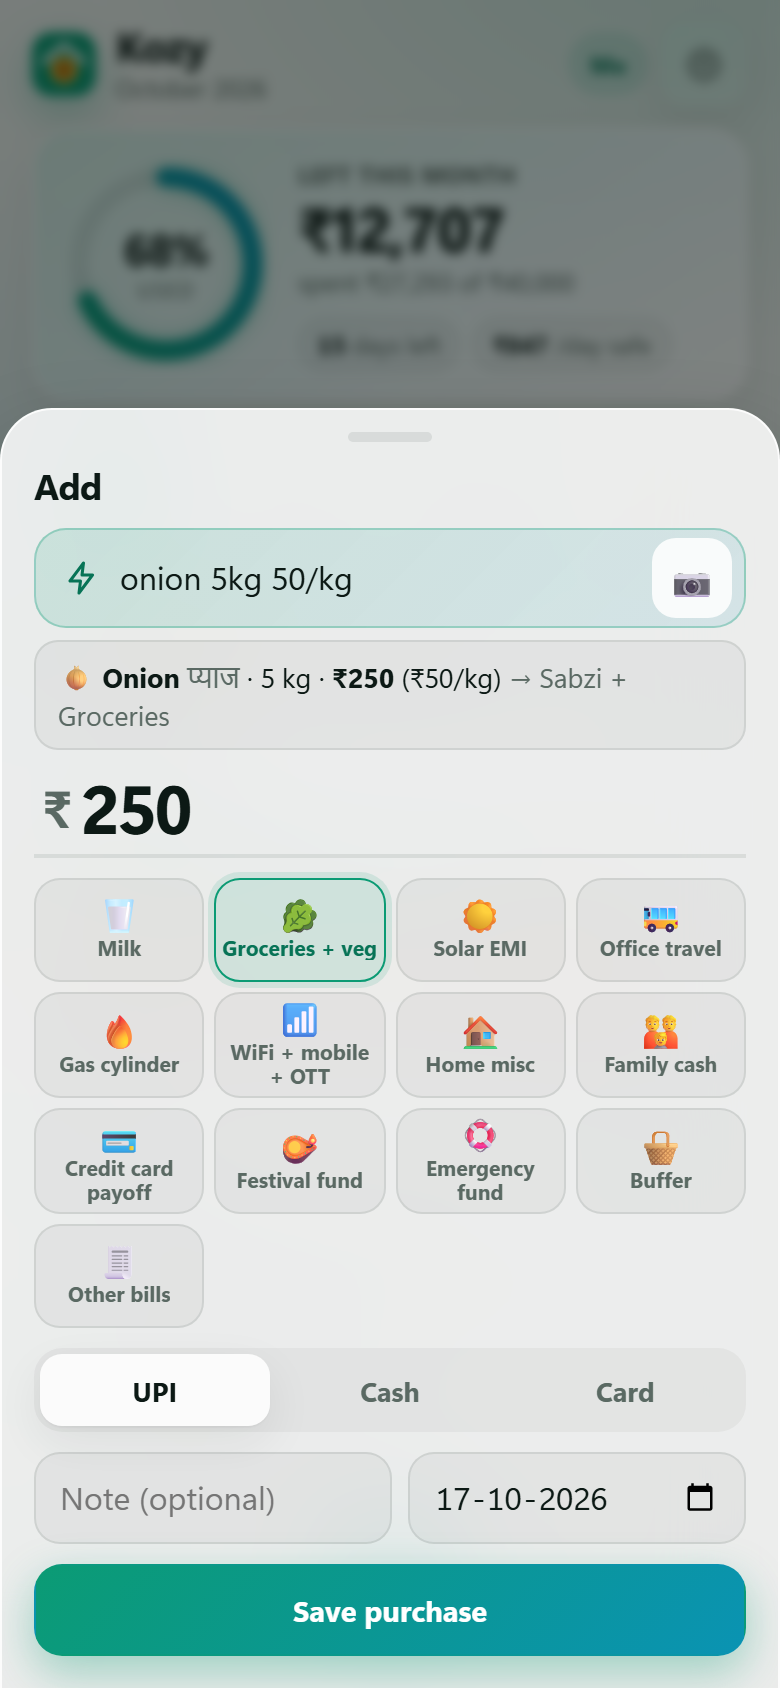
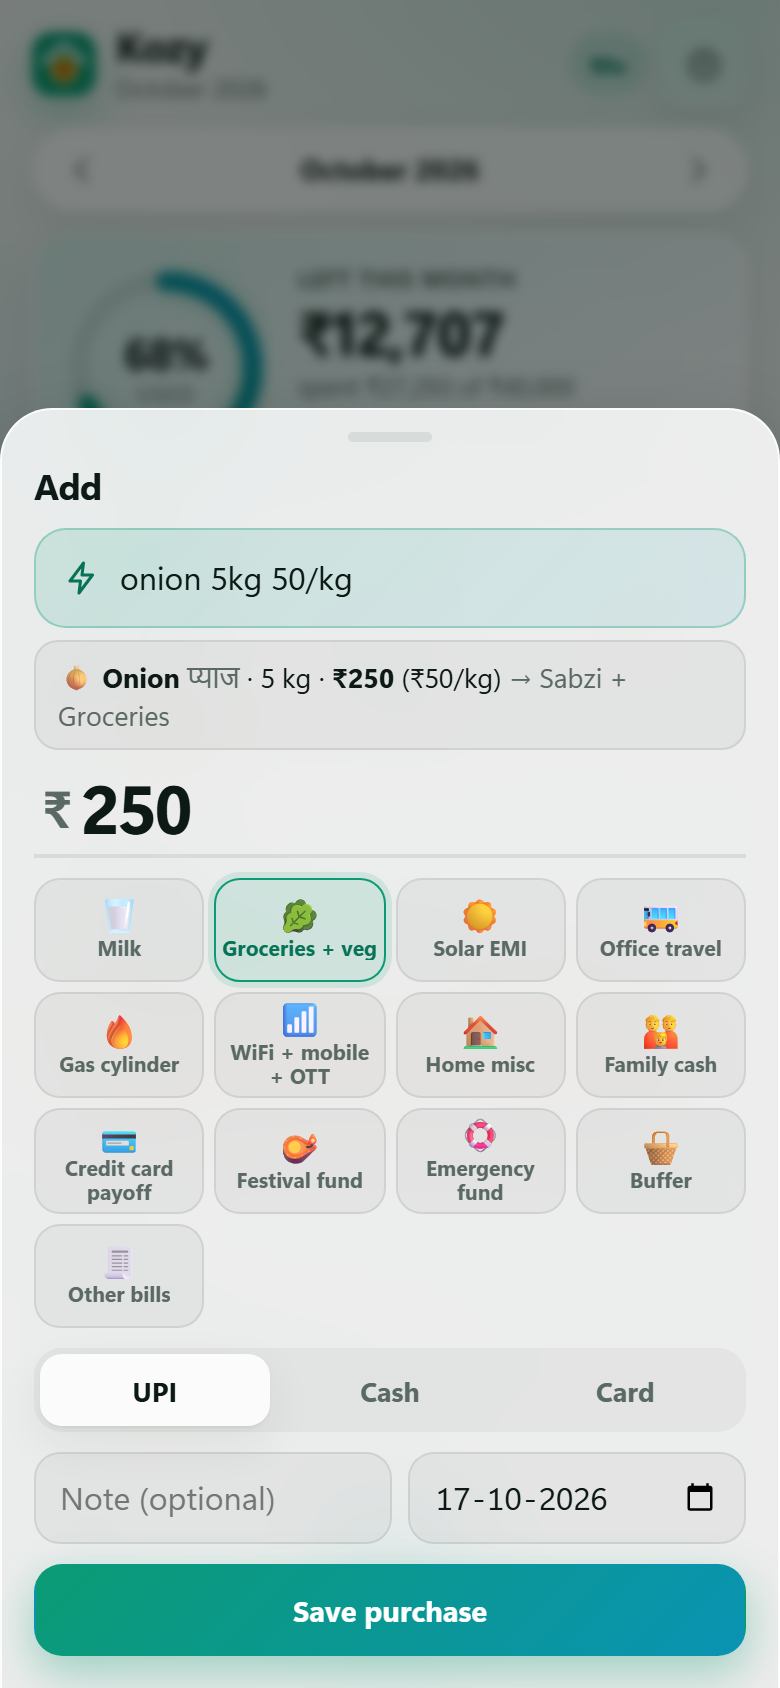
Remove bill photo scan; month switcher (previous / next) on Home

diff --git a/js/views/home.js b/js/views/home.js
@@ -5,12 +5,15 @@ import { reminders } from '../logic/reminders.js';
 import { activity } from '../logic/activity.js';
 import { money, monthName, monthKey, today, esc, number, dayLabel } from '../logic/format.js';
 import { icon, logo, bar, toast, bump, openSheet, closeSheet } from '../ui.js';
-import { activityRow, syncDot, roleBadge, gearLink } from './common.js';
+import { activityRow, syncDot, roleBadge, gearLink, monthSwitch } from './common.js';
 import { openSpendSheet } from './spend-sheet.js';
 import { shoppingList } from '../logic/stock.js';
 import { shiftMonth, moneyShort } from '../logic/format.js';
 import { openEntry } from './edit-entry.js';
 import * as store from '../store.js';
+
+// Which month the top card shows. Resets to this month whenever you come back to Home.
+let viewMk = monthKey();
 
 function chips() {
   const t = today();
@@ -44,7 +47,6 @@ function quickActions() {
     : `<a class="qa-btn done" href="#/milk" data-test="chip-milk"><span class="qa-ic">${icon('check')}</span><span class="qa-t">${md.skip ? 'Milk skipped' : `Milk ✓ ${number(md.litres)} L`}</span></a>`;
   return `<section class="qa" data-test="quick">
     <button class="qa-btn primary" data-act="qa-add" ${w ? '' : 'disabled'}><span class="qa-ic">${icon('plus')}</span><span class="qa-t">Add</span></button>
-    <button class="qa-btn" data-act="qa-scan" ${w ? '' : 'disabled'}><span class="qa-ic">${icon('camera')}</span><span class="qa-t">Scan bill</span></button>
     ${milkBtn}
     <a class="qa-btn ${shopN ? 'warn' : ''}" href="#/stock"><span class="qa-ic">${icon('cart')}</span><span class="qa-t">Shop${shopN ? ` · ${shopN}` : ''}</span></a>
   </section>`;
@@ -83,7 +85,8 @@ function gauge(spent, limit, lvl) {
 }
 
 export function render() {
-  const mk = monthKey();
+  const mk = viewMk;
+  const isNow = mk === monthKey();
   const s = budget.summary(mk);
   const overallLvl = budget.level(s.spent, s.limit);
   const feed = activity(4);
@@ -94,27 +97,29 @@ export function render() {
     <div class="top-right">${roleBadge()}${gearLink()}</div>
   </header>
 
+  <div data-test="home-month">${monthSwitch(mk, 'hmonth')}</div>
+
   <section class="card hero ${s.left < 0 ? 'neg' : ''}" data-test="hero">
     ${gauge(s.spent, s.limit, overallLvl)}
     <div class="hero-main">
-      <p class="label">Left this month</p>
-      <p class="big" data-test="left">${money(s.left)}</p>
+      <p class="label">${isNow ? 'Left this month' : s.left >= 0 ? `Saved in ${monthName(mk)}` : `Over in ${monthName(mk)}`}</p>
+      <p class="big" data-test="left">${money(isNow ? s.left : Math.abs(s.left))}</p>
       <p class="hero-sub">spent ${money(s.spent)} of ${money(s.limit)}</p>
-      <div class="hero-stats">
+      ${isNow ? `<div class="hero-stats">
         <span><b data-test="days-left">${s.daysLeft}</b> days left</span>
         <span><b data-test="safe-daily">${money(s.safeDaily)}</b> /day safe</span>
-      </div>
+      </div>` : ''}
     </div>
   </section>
 
-  ${newMonthCard()}
+  ${isNow ? newMonthCard() : ''}
 
   ${quickActions()}
 
   ${chips() ? `<section class="needs" data-test="needs" aria-label="Needs you">${chips()}</section>` : ''}
 
   <section class="card tight">
-    <div class="card-head"><h2>Top spends</h2><a class="link" href="#/budget">All ${icon('chevron')}</a></div>
+    <div class="card-head"><h2>Top spends${isNow ? '' : ` · ${monthName(mk)}`}</h2><a class="link" href="#/budget">All ${icon('chevron')}</a></div>
     ${s.top.length ? s.top.map((c) => {
       const lvl = budget.level(c.amount, c.limit);
       return `<a class="cat-mini go-row" href="#/budget">
@@ -174,17 +179,19 @@ export function activitySheet() {
   el.querySelectorAll('[data-open]').forEach((b) => b.addEventListener('click', () => openEntry(b.dataset.open, b.dataset.ref)));
 }
 
-export function bind(root) {
+export function bind(root, rerender) {
+  viewMk = monthKey();
   root.addEventListener('click', async (ev) => {
     const o = ev.target.closest('[data-open]');
     if (o) { openEntry(o.dataset.open, o.dataset.ref); return; }
     const t = ev.target.closest('[data-act]');
     if (!t) return;
     const act = t.dataset.act;
-    if (act === 'bills') billsSheet();
+    if (act === 'hmonth-prev') { viewMk = shiftMonth(viewMk, -1); rerender(); }
+    else if (act === 'hmonth-next') { viewMk = shiftMonth(viewMk, 1); rerender(); }
+    else if (act === 'bills') billsSheet();
     else if (act === 'checklist') billsSheet('checklist');
     else if (act === 'qa-add') openSpendSheet();
-    else if (act === 'qa-scan') { const m = await import('./scan-sheet.js'); m.openScanSheet(); }
     else if (act === 'activity') activitySheet();
     else if (act === 'milk-tick') {
       bump(t);

diff --git a/css/app.css b/css/app.css
@@ -227,7 +227,7 @@ h2 { font-size: 14.5px; font-weight: 680; display: flex; align-items: center; ga
 @keyframes ring { from { stroke-dasharray: 0 100; } }
 
 /* Quick actions */
-.qa { display: grid; grid-template-columns: repeat(4, minmax(0, 1fr)); gap: 8px; }
+.qa { display: grid; grid-template-columns: repeat(3, minmax(0, 1fr)); gap: 8px; }
 .qa-btn {
   display: flex; flex-direction: column; align-items: center; justify-content: center; gap: 5px; min-height: 70px; padding: 8px 4px;
   border-radius: 18px; color: var(--text); text-align: center; transition: transform .1s ease;
@@ -410,7 +410,6 @@ input[type=number]::-webkit-inner-spin-button { -webkit-appearance: none; }
 .smart-in { flex: 1; min-width: 0; border: 0; background: none; min-height: 48px; font-size: 16px; outline: none; color: var(--text); }
 .smart-in::placeholder { color: color-mix(in srgb, var(--brand-text) 60%, transparent); }
 .smart-preview { font-size: 13.5px; background: var(--surface-2); border: 1px solid var(--line); padding: 8px 11px; border-radius: 12px; margin-top: -4px; }
-.scan-btn { border: 0; background: var(--glass-strong); border-radius: 12px; font-size: 18px; min-width: 40px; min-height: 40px; }
 
 .cat-grid { display: grid; grid-template-columns: repeat(4, minmax(0, 1fr)); gap: 5px; }
 .cat-chip { display: flex; flex-direction: column; align-items: center; justify-content: center; gap: 2px; min-height: 52px; padding: 4px 2px; border-radius: 13px; border: 1.5px solid var(--line); background: var(--surface-2); transition: border-color .15s ease, background .15s ease; }
@@ -495,7 +494,7 @@ input[type=number]::-webkit-inner-spin-button { -webkit-appearance: none; }
 .sm-row { display: flex; align-items: center; gap: 6px; padding: 5px 0; border-top: 1px solid var(--line); }
 .sm-row:first-child { border-top: 0; }
 .sm-check { flex: 1; min-width: 0; display: flex; align-items: center; gap: 8px; min-height: 44px; font-size: 14px; }
-.sm-check input, .scan-row input[type="checkbox"] { width: 22px; height: 22px; accent-color: var(--brand); flex: none; }
+.sm-check input { width: 22px; height: 22px; accent-color: var(--brand); flex: none; }
 .sm-check span { overflow: hidden; text-overflow: ellipsis; white-space: nowrap; }
 .sm-qty { width: 62px; flex: none; text-align: right; min-height: 40px; padding: 0 6px; }
 .sm-price { width: 66px; flex: none; text-align: right; min-height: 40px; padding: 0 6px; }
@@ -507,10 +506,6 @@ input[type=number]::-webkit-inner-spin-button { -webkit-appearance: none; }
 .plan-amt { font-weight: 760; white-space: nowrap; }
 .plan-row .icon-btn { width: 40px; height: 40px; background: var(--brand-soft); color: var(--brand-text); }
 .plan-row .icon-btn.on { background: var(--grad); color: var(--brand-ink); }
-.scan-list { max-height: 50vh; overflow: auto; }
-.scan-row { display: flex; align-items: center; gap: 6px; padding: 5px 0; border-top: 1px solid var(--line); }
-.scan-row:first-child { border-top: 0; }
-.scan-name { min-width: 0; display: flex; flex-direction: column; font-size: 13.5px; }
 .sm-name { min-height: 38px; font-size: 15px; }
 .raw pre { white-space: pre-wrap; font-size: 11.5px; max-height: 30vh; overflow: auto; background: var(--surface-2); padding: 8px; border-radius: 10px; }
 

diff --git a/tests/kozy.spec.js b/tests/kozy.spec.js
@@ -83,6 +83,30 @@ test('add, edit, delete + undo a spend from the + button', async ({ page }) => {
   await expect(page.locator('.sheet .form-error')).toHaveText('Enter an amount');
 });
 
+test('home: previous / next month, then back to this month; no scan option anywhere', async ({ page }) => {
+  await fresh(page);
+  await addSpend(page, 250, 'Home misc', 'Cash', 'Bulb');
+  await expect(page.locator('[data-test="left"]')).toHaveText('₹39,750');
+  await expect(page.locator('[data-test="home-month"]')).toContainText('October 2026');
+  await page.locator('[data-test="home-month"] [data-act="hmonth-prev"]').click();
+  await expect(page.locator('[data-test="home-month"]')).toContainText('September 2026');
+  await expect(page.locator('.hero .label')).toHaveText('Saved in September 2026');
+  await expect(page.locator('[data-test="left"]')).toHaveText('₹40,000'); // nothing spent in September
+  await expect(page.locator('[data-test="days-left"]')).toHaveCount(0);
+  await page.locator('[data-test="home-month"] [data-act="hmonth-next"]').click();
+  await expect(page.locator('.hero .label')).toHaveText('Left this month');
+  await expect(page.locator('[data-test="left"]')).toHaveText('₹39,750');
+  // leaving Home and coming back starts on this month again
+  await page.locator('[data-test="home-month"] [data-act="hmonth-prev"]').click();
+  await page.locator('.dock a[href="#/budget"], .tabbar a[data-tab="budget"]').first().click();
+  await page.locator('.tabbar a[data-tab="home"]').click();
+  await expect(page.locator('[data-test="home-month"]')).toContainText('October 2026');
+  // the bill scanner is gone
+  await expect(page.getByText('Scan bill')).toHaveCount(0);
+  await page.locator('#fab').click();
+  await expect(page.locator('[data-scan]')).toHaveCount(0);
+});
+
 test('smart quick add: spend, kitchen item, sabzi with ₹/kg', async ({ page }) => {
   await fresh(page);
   await smartAdd(page, 'auto 80 cash');

diff --git a/tests/unit.spec.js b/tests/unit.spec.js
@@ -99,7 +99,6 @@ test('summary, who spent, goals, activity, reminders', () => {
 });
 
 // ---------- v1.2 ----------
-import { parseBill } from '../js/logic/scan.js';
 
 test('budget total, allocation, salary-day checklist', async () => {
   expect(budget.budgetTotal()).toBe(40000); // no budgetTotal set → sum of limits
@@ -153,33 +152,6 @@ test('monthly use + plan, edit a purchase (price lives in the spend)', async () 
   expect(store.get('stock', ev.id).entryId).toBeNull();
   await stock.updatePurchase(store.get('stock', ev.id), { price: 240 });
   expect(stock.priceOf(store.get('stock', ev.id))).toBe(240);
-});
-
-test('bill scan parser', () => {
-  const text = `SHRI BALAJI KIRANA STORE
-Rohtak  Ph: 9812345678
-Date: 17/10/2026  Bill No: 1123
-Item          Qty    Rate   Amount
-Aashirvaad Atta 10kg  1  420  420.00
-Fortune Mustard Oil 1L 2 165  330.00
-Tata Salt 1kg   1   28   28.00
-Surf Excel 1kg  1  135  135
-Onion 2kg  1  80  80
-Parle G biscuit 4 10 40
-Sub Total               1033.00
-CGST 0.00
-Grand Total   1,033.00
-Thank you visit again`;
-  const r = parseBill(text);
-  expect(r.total).toBe(1033);
-  const byItem = Object.fromEntries(r.rows.filter((x) => x.item).map((x) => [x.item.id, x]));
-  expect(byItem['item-atta']).toMatchObject({ qty: 10, unit: 'kg', price: 420 });
-  expect(byItem['item-oil']).toMatchObject({ price: 330 });
-  expect(byItem['item-salt']).toMatchObject({ price: 28 });
-  expect(byItem['veg-onion']).toMatchObject({ qty: 2, price: 80 });
-  expect(r.rows.find((x) => /parle/i.test(x.name))).toMatchObject({ item: null, price: 40 });
-  expect(r.rows.length).toBe(6);
-  expect(r.sum).toBe(1033);
 });
 
 test('login with just a name adds the family domain', async () => {

diff --git a/js/views/spend-sheet.js b/js/views/spend-sheet.js
@@ -24,7 +24,6 @@ export function openSpendSheet(entry = null, preset = {}) {
       ${!isEdit ? `<label class="smart">
         ${icon('bolt')}
         <input name="smart" class="smart-in" placeholder="sabzi 250 · atta 10kg 420 · auto 80 cash" autocomplete="off" autocapitalize="off" aria-label="Smart quick add">
-        <button type="button" class="scan-btn" data-scan aria-label="Scan a bill photo">📷</button>
       </label>
       <p class="smart-preview" data-preview hidden></p>` : ''}
       <label class="amount-field">
@@ -73,12 +72,6 @@ export function openSpendSheet(entry = null, preset = {}) {
   };
   form.querySelectorAll('[data-cat]').forEach((b) => b.addEventListener('click', () => pickCat(b.dataset.cat)));
   form.querySelectorAll('[data-mode]').forEach((b) => b.addEventListener('click', () => pickMode(b.dataset.mode)));
-
-  form.querySelector('[data-scan]')?.addEventListener('click', async (e) => {
-    e.preventDefault();
-    const { openScanSheet } = await import('./scan-sheet.js');
-    openScanSheet();
-  });
 
   form.smart?.addEventListener('input', () => {
     const r = parse(form.smart.value);

diff --git a/sw.js b/sw.js
@@ -22,9 +22,7 @@ const SHELL = [
   'js/logic/activity.js',
   'js/logic/quick.js',
   'js/logic/reminders.js',
-  'js/logic/scan.js',
   'js/views/edit-entry.js',
-  'js/views/scan-sheet.js',
   'js/views/common.js',
   'js/views/home.js',
   'js/views/budget.js',

diff --git a/CLAUDE.md b/CLAUDE.md
@@ -27,15 +27,15 @@ Plain HTML + CSS + vanilla JS (ES modules). No build step. Must run on GitHub Pa
 - `js/views/auth.js` (`runGate`: login / create account / check inbox / create household), `js/views/team.js` (Settings → 👥 Household).
 - `js/logic/*.js` — pure maths, no DOM: `budget` (cats, budget total, bills + salary-day checklist, goals, summary,
   insights, year view, family spends), `stock` (kitchen countdown, sabzi prices, edit purchase, monthly use + plan),
-  `milk`, `quick` (smart quick-add parser), `scan` (bill photo → lines, Tesseract.js from CDN), `reminders`, `activity`, `demo`, `format`.
+  `milk`, `quick` (smart quick-add parser), `reminders`, `activity`, `demo`, `format`.
 - `js/views/*.js` — one file per screen + `spend-sheet.js` (the + button), `edit-entry.js` (edit any entry),
-  `scan-sheet.js` (📷 review). `js/app.js` — router + startup.
+  `js/app.js` — router + startup.
 - `sw.js` (offline + push) · `manifest.webmanifest` · `icons/` — PWA.
 - `firestore.rules` — roles enforced server-side (ME_EMAIL / WIFE_EMAIL / VIEWER_EMAIL placeholders).
 - `tools/server.mjs` — local server (`npm start` → http://localhost:5173).
 - `tools/reminders/send.mjs` + `.github/workflows/reminders.yml` — free daily push reminders (every household) via GitHub Actions.
 - `tools/reminders/backup.mjs` + `.github/workflows/backup.yml` — nightly JSON backup to a PRIVATE repo + free-limit warning. `.github/workflows/ci.yml` — all tests on every push.
-- `tests/` — Playwright (`npm test`, 32 tests incl. unit, push and a real bill scan). Screenshots → `screenshots/`.
+- `tests/` — Playwright (`npm test`, 35 tests incl. unit and push). Screenshots → `screenshots/`.
 - `tests-rules/` — Firebase emulator tests (needs Java 11+): `npm test` (14 rules tests), `npm run test:app` (real app: sign up → household → roles → removal → legacy account), `npm run test:backup` (nightly backup script), `npm run demo` (emulators + app at http://localhost:5173/?emulator=1 to try by hand; inbox screen has an "[Emulator] auto-verify" button).
 
 ## Progress
@@ -52,7 +52,7 @@ Plain HTML + CSS + vanilla JS (ES modules). No build step. Must run on GitHub Pa
       (MULTI_USER_PLAN.md, DECISIONS #76+). All tests pass. TO PUBLISH: paste firestore.rules in Firebase console, turn ON sign-up
       (Authentication → Settings → User actions), set email template sender "Kozy", then merge `multi-user` into `main` and push.
 - [x] v2.0.1 LIVE (multi-user, krrish still works). v2.1.0 on branch `join-codes` (NOT published): invite codes + link, delete household/account,
-      backup + usage-warning script, CI. TO PUBLISH v2.1: re-paste firestore.rules (new `invites` part), merge `join-codes` → main, push.
+      backup + usage-warning script, CI, ◀ month ▶ on Home, bill scan removed. TO PUBLISH v2.1: re-paste firestore.rules (new `invites` part), merge `join-codes` → main, push.
       Backup needs secrets FIREBASE_SERVICE_ACCOUNT + BACKUP_REPO_TOKEN and a private repo krrivats/kozy-backups (not done yet).
 - [ ] Later: medicines with expiry, home items (plumbing/electrical/utensils)
 - [ ] Maybe: weekly grocery view; better bill reading (paid AI vision) if free OCR isn't good enough

diff --git a/DECISIONS.md b/DECISIONS.md
@@ -148,3 +148,5 @@ Some replace v1 decisions above (marked ♻).
 | 90 | **Usage warning** in the same job: estimated daily reads (docs × people × 2 opens) against the free 50 000; at 70 % the run FAILS so GitHub emails you. | The free plan simply stops when full; this gives notice first. |
 | 91 | **Automatic tests** (`.github/workflows/ci.yml`) on every push: 36 app tests + rules + multi-user app + backup tests. | A change that breaks something is caught before it goes live. |
 | 92 | Settings sections remember open/closed at the tap itself. | A list reload between the tap and the "open" event could close the section again. |
+| 93 | **Bill photo scan removed** (the 📷 button, the Scan bill quick action, the scanner code and its tests). Home quick actions are now Add · Milk · Shop. | You don't need it for now; one less thing to maintain and no CDN download. |
+| 94 | **Home has ◀ month ▶** like Budget. Past/future months show what was saved or went over (no "days left"); leaving Home and coming back returns to this month. | Look back at last month without opening Budget. |
